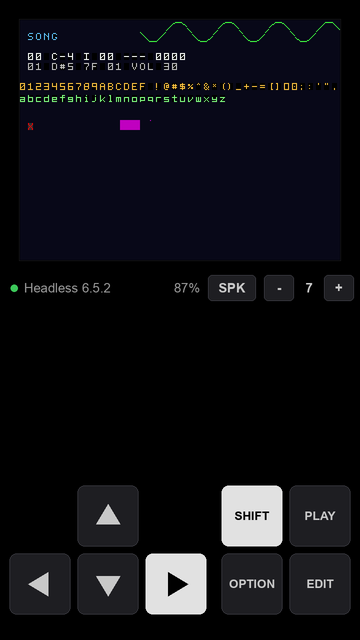
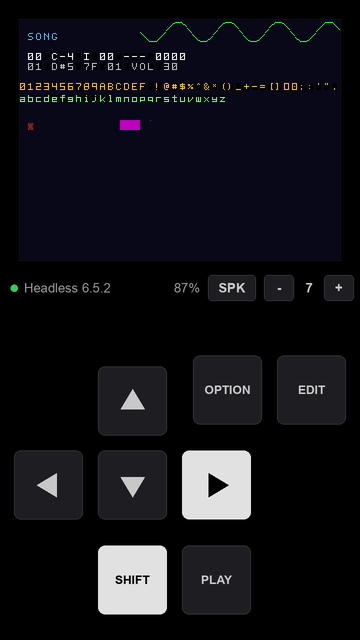
Match the M8's real key layout
Cursor keys as an inverted T, SHIFT/PLAY directly under DOWN/RIGHT, and
OPTION/EDIT up and to the right of UP, each pair offset from the grid by
the same gap, as on the hardware. Keys grow to 144 px.

Changed region(s): [[0.0, 0.5312, 0.9778, 0.9688], [0.7639, 0.5312, 0.9778, 0.6875]]

diff --git a/src/input/keypad_layout.cpp b/src/input/keypad_layout.cpp
@@ -1,13 +1,14 @@
-// Tab5 key layout: the M8's own arrangement across the bottom of the portrait screen, for
-// two-thumb play. Cursor keys as an inverted T on the left; SHIFT/PLAY over OPTION/EDIT on
-// the right.
+// The M8's key layout, across the bottom of the portrait screen. Keys sit on a regular grid
+// (KEY_SIZE keys, KEY_SPACING apart), with two groups pushed out by KEY_OFFSET:
 //
-//        [ UP ]              [SHIFT][PLAY]
-//  [LEFT][DOWN][RIGHT]       [ OPT ][EDIT]
+//                         [OPTION][ EDIT ]   <- up and right by KEY_OFFSET
+//            [ UP ]
+//    [LEFT ] [DOWN] [RIGHT]
+//                                            <- extra KEY_OFFSET gap
+//            [SHIFT][ PLAY]                  <- under DOWN and RIGHT
 //
-// Hit rects extend half the key spacing beyond each key, and to the screen edge for keys on
-// the outside, so there are no dead zones within a group. The wider gap between the two
-// groups stays dead, so a thumb on the cursor keys can't catch SHIFT or OPTION.
+// Hit rects extend half the key spacing beyond each key, and to the screen edge for outer
+// keys, so near misses still register without neighbouring keys overlapping.
 #include "input/keypad.h"
 
 #include "config.h"
@@ -18,28 +19,33 @@ namespace {
 
 using namespace m8proto;
 
-constexpr int kStep = KEY_SIZE + KEY_SPACING;
+constexpr int kPitch = KEY_SIZE + KEY_SPACING;
 
-// Columns
-constexpr int kCursorX0 = KEY_MARGIN;
-constexpr int kCursorX1 = kCursorX0 + kStep;
-constexpr int kCursorX2 = kCursorX1 + kStep;
-constexpr int kActionX0 = kCursorX2 + KEY_SIZE + KEY_GROUP_GAP;
-constexpr int kActionX1 = kActionX0 + kStep;
-static_assert(kActionX1 + KEY_SIZE + KEY_MARGIN == LCD_WIDTH, "keypad must span the width");
+constexpr int kWidth = 4 * KEY_SIZE + 3 * KEY_SPACING + KEY_OFFSET;
+constexpr int kHeight = 3 * KEY_SIZE + 2 * KEY_SPACING + 2 * KEY_OFFSET;
+constexpr int kOriginX = (LCD_WIDTH - kWidth) / 2;
+constexpr int kOriginY = LCD_HEIGHT - KEY_BOTTOM_MARGIN - kHeight;
+static_assert(kOriginX >= 0, "keypad is wider than the screen");
+static_assert(kOriginY >= STATUS_Y + STATUS_H, "keypad overlaps the status bar");
 
-// Rows
-constexpr int kRowLower = LCD_HEIGHT - KEY_BOTTOM_MARGIN - KEY_SIZE;
-constexpr int kRowUpper = kRowLower - kStep;
+// Grid columns and rows.
+constexpr int kCol0 = kOriginX;
+constexpr int kCol1 = kCol0 + kPitch;
+constexpr int kCol2 = kCol1 + kPitch;
+constexpr int kCol3 = kCol2 + kPitch;
+constexpr int kRowTop = kOriginY;                         // OPTION, EDIT
+constexpr int kRowUp = kRowTop + KEY_OFFSET;              // UP
+constexpr int kRowMid = kRowUp + kPitch;                  // LEFT, DOWN, RIGHT
+constexpr int kRowBottom = kRowMid + kPitch + KEY_OFFSET; // SHIFT, PLAY
 
 constexpr int kSlop = KEY_SPACING / 2;
 
 constexpr Key make_key(const char *label, uint8_t bit, Icon icon, int vx, int vy) {
   int x0 = vx - kSlop, x1 = vx + KEY_SIZE + kSlop;
   int y0 = vy - kSlop, y1 = vy + KEY_SIZE + kSlop;
-  if (vx == KEY_MARGIN) x0 = 0;
-  if (vx + KEY_SIZE + KEY_MARGIN == LCD_WIDTH) x1 = LCD_WIDTH;
-  if (vy == kRowLower) y1 = LCD_HEIGHT;
+  if (vx == kCol0) x0 = 0;                             // LEFT: to the screen edge
+  if (vx == kCol3 + KEY_OFFSET) x1 = LCD_WIDTH;        // EDIT
+  if (vy == kRowBottom) y1 = LCD_HEIGHT;               // SHIFT, PLAY
   return Key{label,
              bit,
              icon,
@@ -54,14 +60,14 @@ constexpr Key make_key(const char *label, uint8_t bit, Icon icon, int vx, int vy
 }
 
 const Key kKeys[kKeyCount] = {
-    make_key("UP", kKeyUp, Icon::kUp, kCursorX1, kRowUpper),
-    make_key("LEFT", kKeyLeft, Icon::kLeft, kCursorX0, kRowLower),
-    make_key("DOWN", kKeyDown, Icon::kDown, kCursorX1, kRowLower),
-    make_key("RIGHT", kKeyRight, Icon::kRight, kCursorX2, kRowLower),
-    make_key("SHIFT", kKeySelect, Icon::kNone, kActionX0, kRowUpper),
-    make_key("PLAY", kKeyStart, Icon::kNone, kActionX1, kRowUpper),
-    make_key("OPTION", kKeyOpt, Icon::kNone, kActionX0, kRowLower),
-    make_key("EDIT", kKeyEdit, Icon::kNone, kActionX1, kRowLower),
+    make_key("OPTION", kKeyOpt, Icon::kNone, kCol2 + KEY_OFFSET, kRowTop),
+    make_key("EDIT", kKeyEdit, Icon::kNone, kCol3 + KEY_OFFSET, kRowTop),
+    make_key("UP", kKeyUp, Icon::kUp, kCol1, kRowUp),
+    make_key("LEFT", kKeyLeft, Icon::kLeft, kCol0, kRowMid),
+    make_key("DOWN", kKeyDown, Icon::kDown, kCol1, kRowMid),
+    make_key("RIGHT", kKeyRight, Icon::kRight, kCol2, kRowMid),
+    make_key("SHIFT", kKeySelect, Icon::kNone, kCol1, kRowBottom),
+    make_key("PLAY", kKeyStart, Icon::kNone, kCol2, kRowBottom),
 };
 
 } // namespace

diff --git a/src/config.h b/src/config.h
@@ -16,9 +16,11 @@
 //   |  +----------------+  |   520
 //   |  status bar          |   544 .. 608
 //   |                      |
+//   |          OPT  EDIT   |   708
+//   |      ^               |
+//   |  <   v   >           |
 //   |                      |
-//   |     ^      SHIFT PLAY|   968
-//   |  <  v  >   OPT   EDIT|   1104 .. 1232
+//   |     SHIFT PLAY       |   .. 1232
 //   +----------------------+   1280
 // ---------------------------------------------------------------------------
 #define LCD_WIDTH 720
@@ -33,11 +35,11 @@
 #define STATUS_W LCD_WIDTH
 #define STATUS_H 64
 
-// Keypad (see keypad_layout.cpp): the M8's own arrangement, sized for thumbs.
-#define KEY_SIZE 128
-#define KEY_SPACING 8 // between keys in a group
-#define KEY_GROUP_GAP 24 // between the cursor keys and SHIFT/PLAY/OPTION/EDIT
-#define KEY_MARGIN 16 // left/right screen margin
+// Keypad (see keypad_layout.cpp): the M8's own arrangement on a regular grid, with OPTION/EDIT
+// shifted up and right, and SHIFT/PLAY down, by KEY_OFFSET. Proportions follow the M8.
+#define KEY_SIZE 144
+#define KEY_SPACING 24 // between neighbouring keys on the grid
+#define KEY_OFFSET 22  // extra shift of the OPTION/EDIT and SHIFT/PLAY pairs
 #define KEY_BOTTOM_MARGIN 48
 
 // ---------------------------------------------------------------------------

diff --git a/README.md b/README.md
@@ -22,19 +22,18 @@ The Tab5's 5" screen is used in portrait (720×1280):
 - **M8 screen at 2×** (640×480) at the top, a clean integer scale of the Headless's 320×240.
 - **Status bar:** connection and firmware version, battery level, speaker/headphone toggle,
   volume.
-- **The M8's own key layout** along the bottom, sized for two thumbs: the cursor keys as an
-  inverted T on the left, SHIFT/PLAY over OPTION/EDIT on the right. Keys are 128 px
-  (about 11 mm).
+- **The M8's own key layout** along the bottom: the cursor keys as an inverted T, SHIFT/PLAY
+  directly under DOWN/RIGHT, and OPTION/EDIT up and to the right of UP, as on the hardware.
+  Keys are 144 px (about 12.5 mm).
 
 To turn the layout upside down, uncomment `-DTAB5_ROTATE_180=1` in `platformio.ini`.
 
 ## Controls
 
 - **Keys:** every key a finger is touching counts as held, so M8 combos work as on the
-  hardware: hold SHIFT, EDIT or OPTION and tap or hold a cursor key. Within each key group,
-  touch areas meet with no dead space, so a thumb can slide from key to key. The gap between
-  the cursor keys and the action keys is dead space, so a thumb on the arrows can't catch
-  SHIFT.
+  hardware: hold SHIFT, EDIT or OPTION and tap or hold a cursor key. Each key's touch area
+  reaches halfway into the gap around it, so near misses still count without neighbouring
+  keys overlapping.
 - **SPK / HP:** chooses the speaker or the headphone jack. Each output keeps its own volume.
 - **Volume:** `−`/`+` (0–10). Volumes and the selected output are saved to flash.
 
